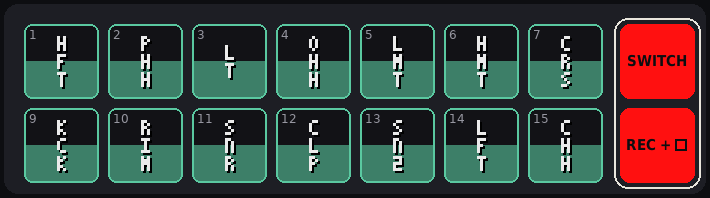
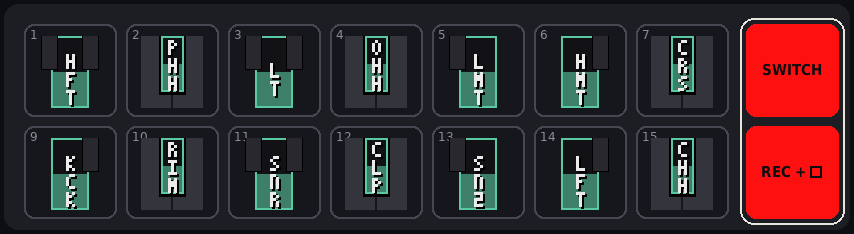
Pads at three levels: full words, in short, and each pad as the key it stands for (the screen keyboard's shapes and colours)
Claude-Session: https://claude.ai/code/session_01N9f4HJn3ZZ4mEGDi7YNfQW

diff --git a/README.md b/README.md
@@ -35,14 +35,19 @@ come in turn (OPTION CONTROL: HELP AT START).
 
 <p align="center"><img src="docs/img/keys-at-a-glance.png" width="560" alt="Every layer of the SMK-37's screen keyboard with its keys' names"></p>
 
-The 16 pads, mode by mode; framed on the right, **SWITCH** (MODE: the next mode) and **REC + ▢** (REC + a pad: keep):
+The 16 pads, mode by mode; framed on the right, **SWITCH** (MODE: the next mode) and **REC + ▢** (REC + a pad: keep).
+Three levels — in full words:
 
-<p align="center"><img src="docs/img/pads-all-modes.png" width="560" alt="The pads in each mode: CLIPS, DRUMS, PERFORM, SCENES, MIDI; on the right SWITCH and REC + a pad"></p>
+<p align="center"><img src="docs/img/pads-all-modes.png" width="560" alt="The pads in each mode, in full words: CLIPS, DRUMS, PERFORM, SCENES, MIDI"></p>
 
-The same in short, as the screen keyboard writes them, in its colours (pink: loops and scenes, mint: acts at once,
-violet: a track playing):
+In short:
 
-<p align="center"><img src="docs/img/pads-all-modes-keys.png" width="560" alt="The pads in each mode in short, in the screen keyboard's colours"></p>
+<p align="center"><img src="docs/img/pads-all-modes-short.png" width="560" alt="The pads in each mode, in short, in the pads' colours"></p>
+
+And each pad as the key it stands for, drawn as the screen keyboard draws it (pink: valid on release on the keyboard,
+mint: acts at once, violet: a track playing):
+
+<p align="center"><img src="docs/img/pads-all-modes-keys.png" width="560" alt="Each pad with the key it stands for, in the screen keyboard's colours"></p>
 
 Every layer, the buttons, the set-up menus, the pads and the sounds:
 **[22 — At a glance](docs/_EN/22-screen-keyboard-and-menus.md)** · 🇫🇷 **[22 — Repères](docs/_FR/22-reperes-ecran-et-menus.md)**

diff --git a/docs/_FR/22-reperes-ecran-et-menus.md b/docs/_FR/22-reperes-ecran-et-menus.md
@@ -220,11 +220,15 @@ Tous les paramètres du son de la ligne : oscillateurs, filtre, enveloppes, puis
 
 16 pads : 14 de jeu, et à droite (encadrés) MODE en haut, SWITCH : une tape = le mode suivant, le pad prend sa couleur ; REC en bas : REC + un pad. Le bouton > (PAD/STEP) fait aussi le tour des modes.
 
-Tous les modes en toutes lettres, dans les couleurs des pads :
+Trois niveaux de lecture. 1 — tous les modes en toutes lettres, dans les couleurs des pads :
 
 <p align="center"><img src="../img/pads-all-modes.png" width="560" alt="pads"></p>
 
-Les mêmes en abrégé, comme le clavier à l’écran les écrit, dans ses couleurs (même fonction, même couleur : rose = boucles et scènes, menthe = agit tout de suite, violet = piste qui joue) :
+2 — en abrégé, toujours dans les couleurs des pads :
+
+<p align="center"><img src="../img/pads-all-modes-short.png" width="560" alt="pads"></p>
+
+3 — chaque pad avec la touche qu’il remplace, comme le clavier à l’écran la dessine (même fonction, même couleur : rose = validé au relâché sur le clavier, menthe = agit tout de suite, violet = piste qui joue ; une touche noire entre ses deux blanches grises) :
 
 <p align="center"><img src="../img/pads-all-modes-keys.png" width="560" alt="pads"></p>
 

diff --git a/docs/_EN/22-screen-keyboard-and-menus.md b/docs/_EN/22-screen-keyboard-and-menus.md
@@ -220,11 +220,15 @@ Every parameter of the line's sound: oscillators, filter, envelopes, then the mo
 
 16 pads: 14 to play, and on the right (framed) MODE at the top, SWITCH: a tap = the next mode, the pad takes its colour; REC at the bottom: REC + a pad. The > button (PAD/STEP) also goes round the modes.
 
-Every mode in full words, in the pads’ colours:
+Three levels. 1 — every mode in full words, in the pads’ colours:
 
 <p align="center"><img src="../img/pads-all-modes.png" width="560" alt="pads"></p>
 
-The same in short, as the screen keyboard writes them, in its colours (same function, same colour: pink = loops and scenes, mint = acts at once, violet = a track playing):
+2 — in short, still in the pads’ colours:
+
+<p align="center"><img src="../img/pads-all-modes-short.png" width="560" alt="pads"></p>
+
+3 — each pad with the key it stands for, as the screen keyboard draws it (same function, same colour: pink = valid on release on the keyboard, mint = acts at once, violet = a track playing; a black key between its two white keys in grey):
 
 <p align="center"><img src="../img/pads-all-modes-keys.png" width="560" alt="pads"></p>
 
